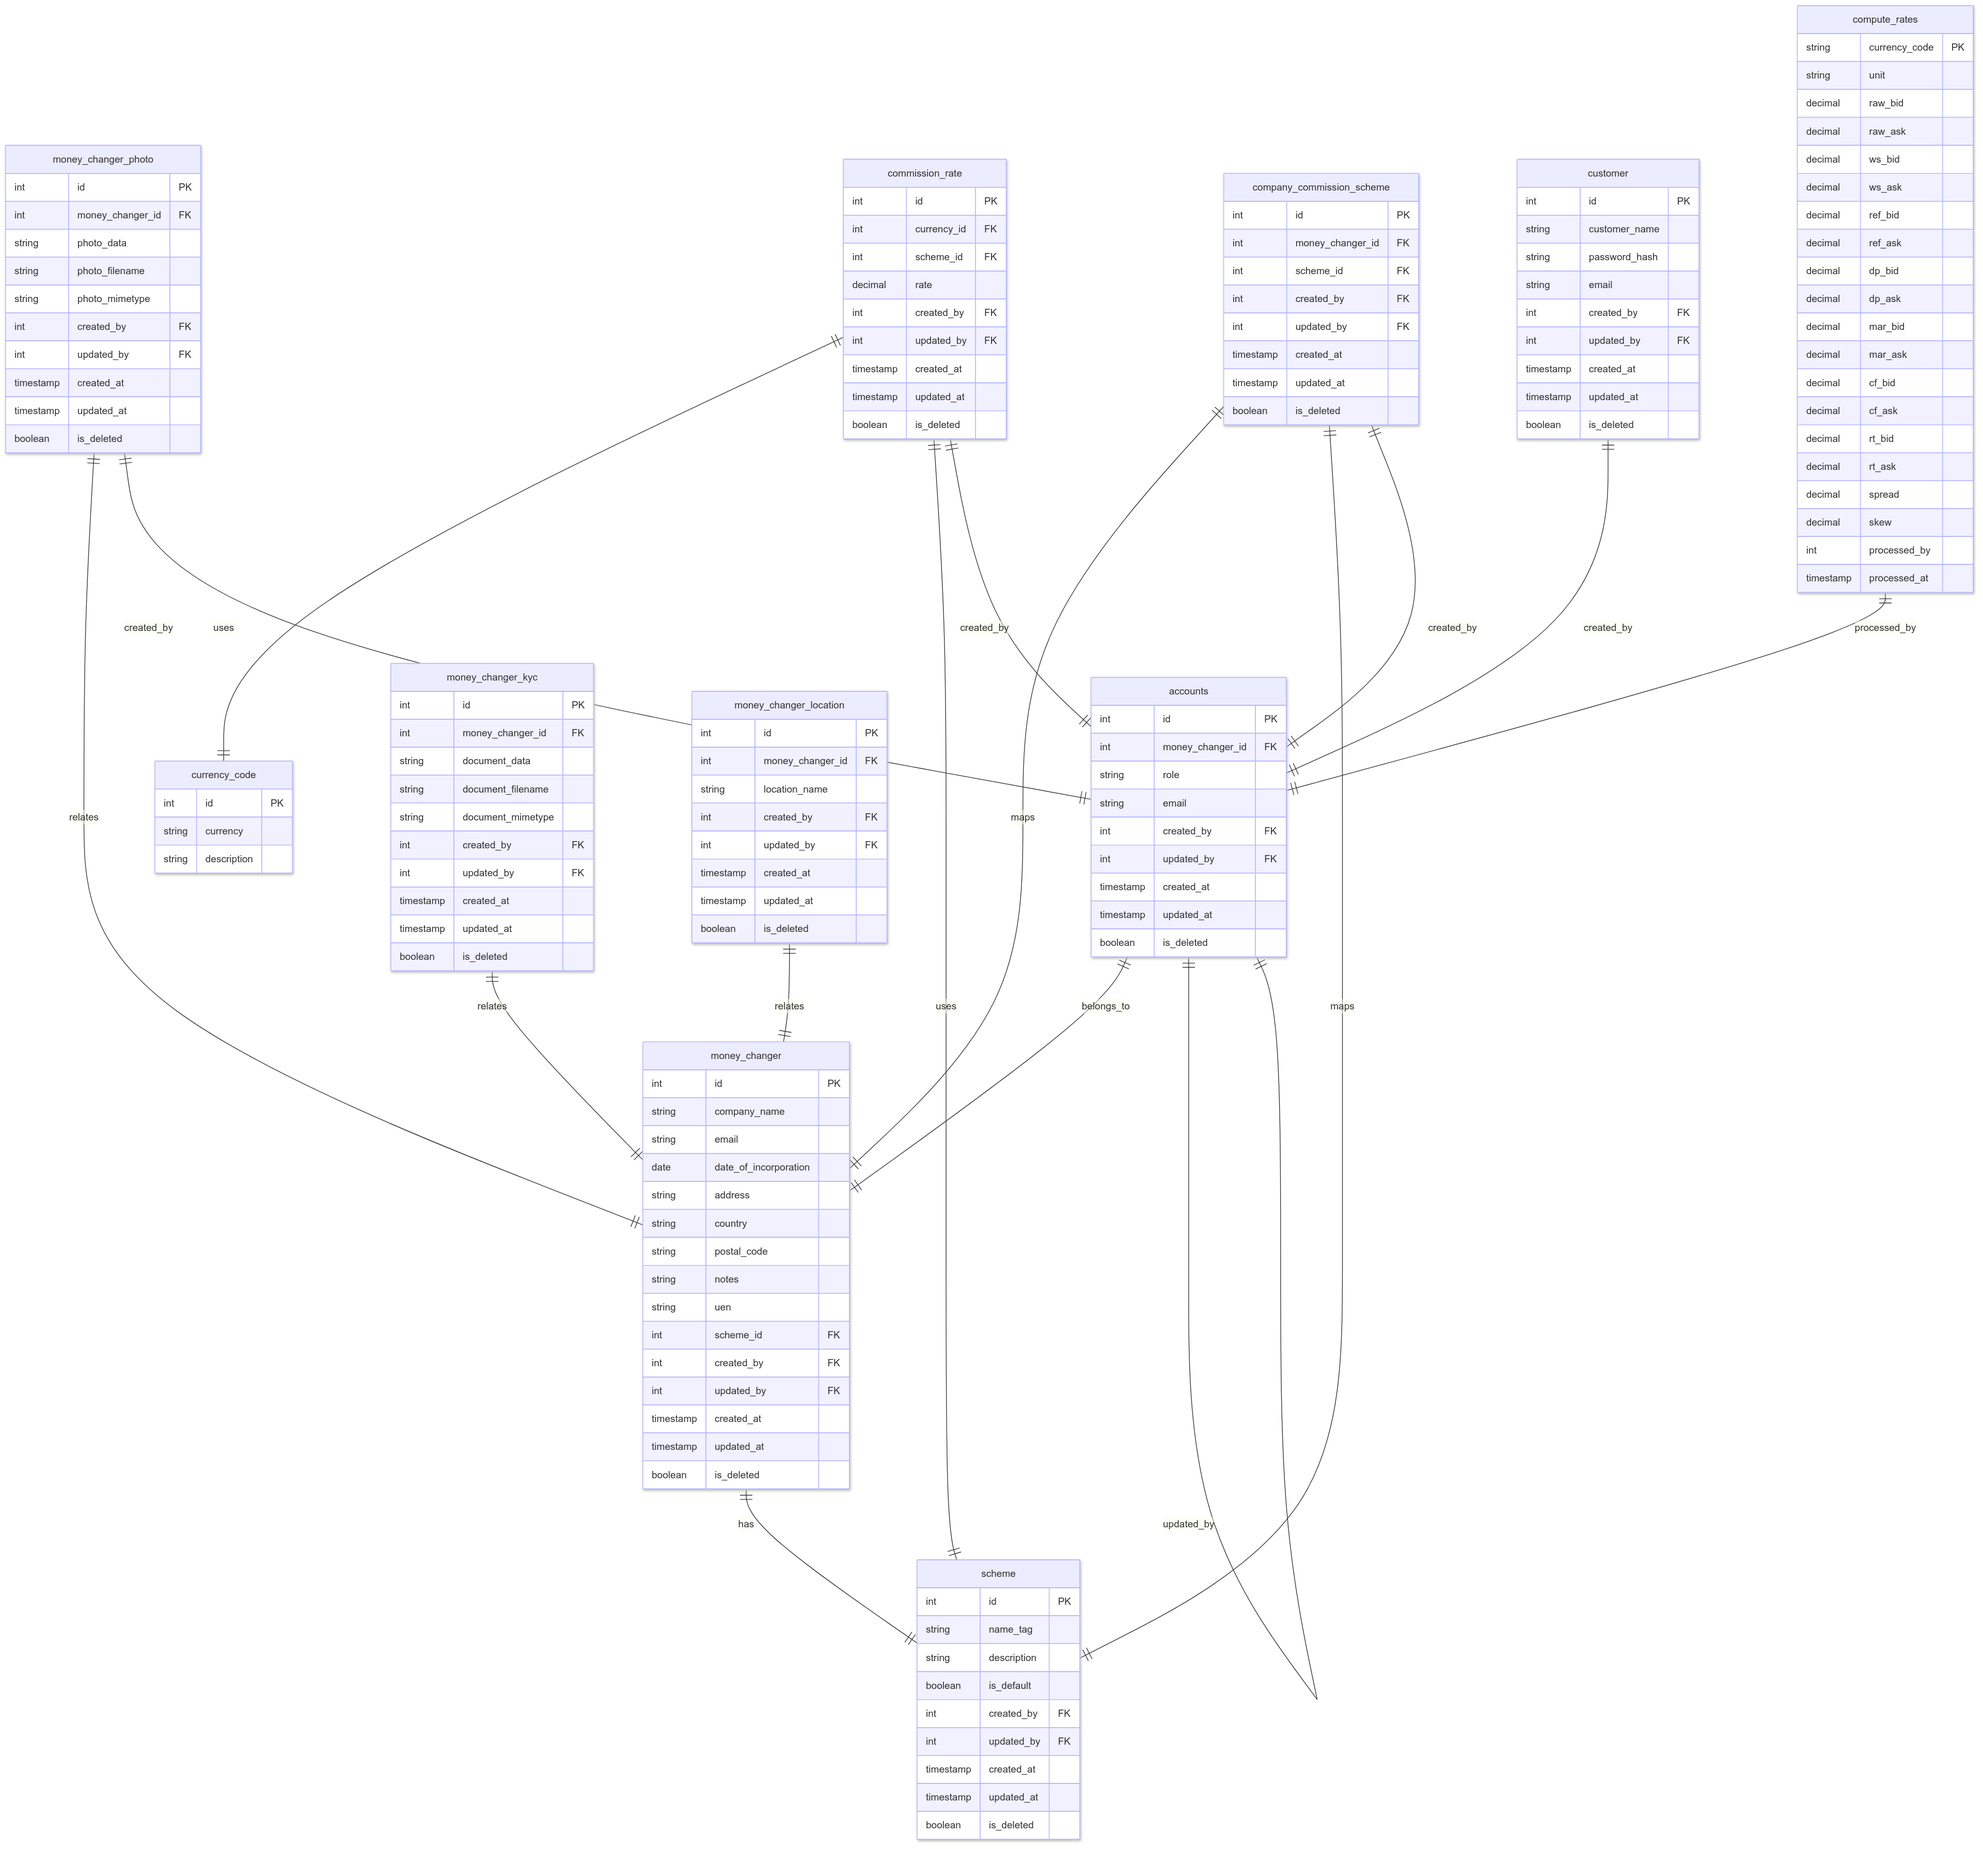
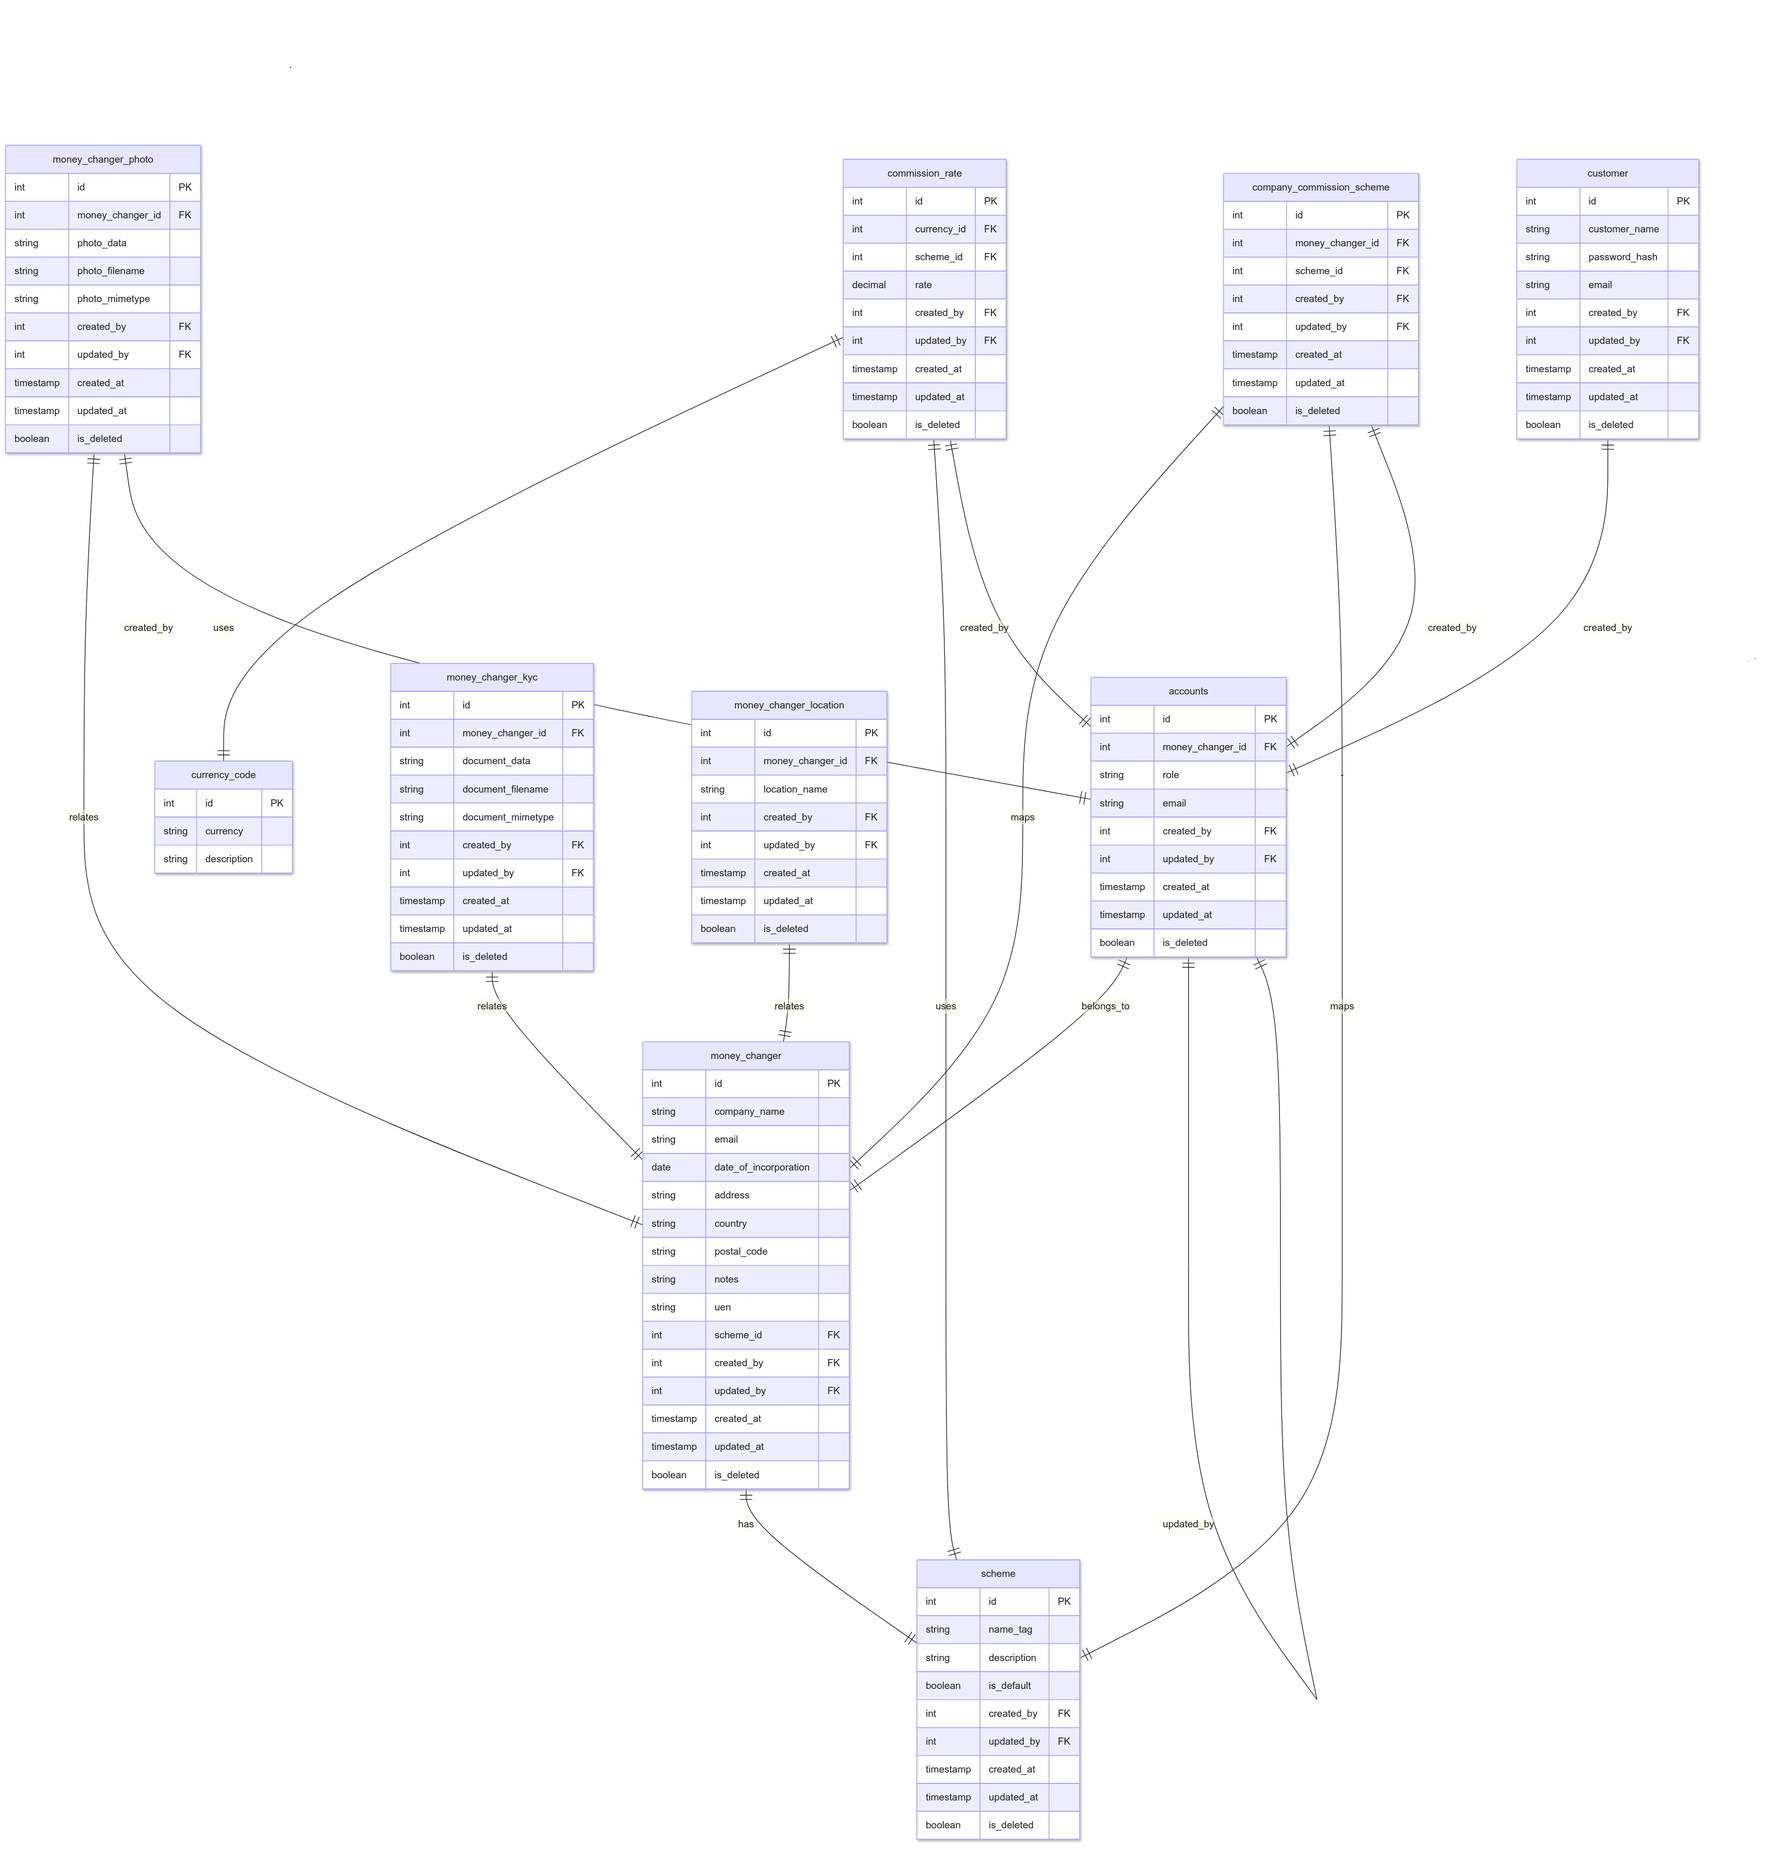
update documentation

diff --git a/src/test/java/com/moola/fx/moneychanger/operations/service/ApplicationSettingServiceImplTest.java b/src/test/java/com/moola/fx/moneychanger/operations/service/ApplicationSettingServiceImplTest.java
@@ -18,7 +18,6 @@ import java.util.Optional;
 import static org.junit.jupiter.api.Assertions.assertEquals;
 import static org.junit.jupiter.api.Assertions.assertThrows;
 import static org.mockito.ArgumentMatchers.any;
-import static org.mockito.ArgumentMatchers.anyString;
 import static org.mockito.Mockito.verify;
 import static org.mockito.Mockito.when;
 

diff --git a/README.md b/README.md
@@ -104,17 +104,21 @@ mvn spring-boot:run
 ### Compute Rate Business Logic (Standard-Formula)
 <img src="resources/uml/compute-rate-formula.png" alt="Formula Notation" width="600"/>
 
-## 📊 Database Diagrams
+## 📊 Database ER Diagrams
 
-### MoneyChanger Microservice ERD Diagram
+### Operation Microservice Schema
 
 ![ERD Diagram](resources/dbscript/MoneyGrab-ERD.png)
 
-### FxUpload Microservice ERD Diagram
+### FxUpload Lambda Microservice Schema
 
 <img src="resources/dbscript/fxuploaddb-ERD.png" alt="ERD Diagram" width="200"/>
 
-### Reservation Microservice ERD Diagram
+### Rate Lambda Microservice Schema
+
+<img src="resources/dbscript/computeratedb-ERD.png" alt="ERD Diagram" width="200"/>
+
+### Reservation Microservice Schema
 
 <img alt="ERD Diagram" src="resources/dbscript/reservationdb-ERD.png" width="200"/>
 
